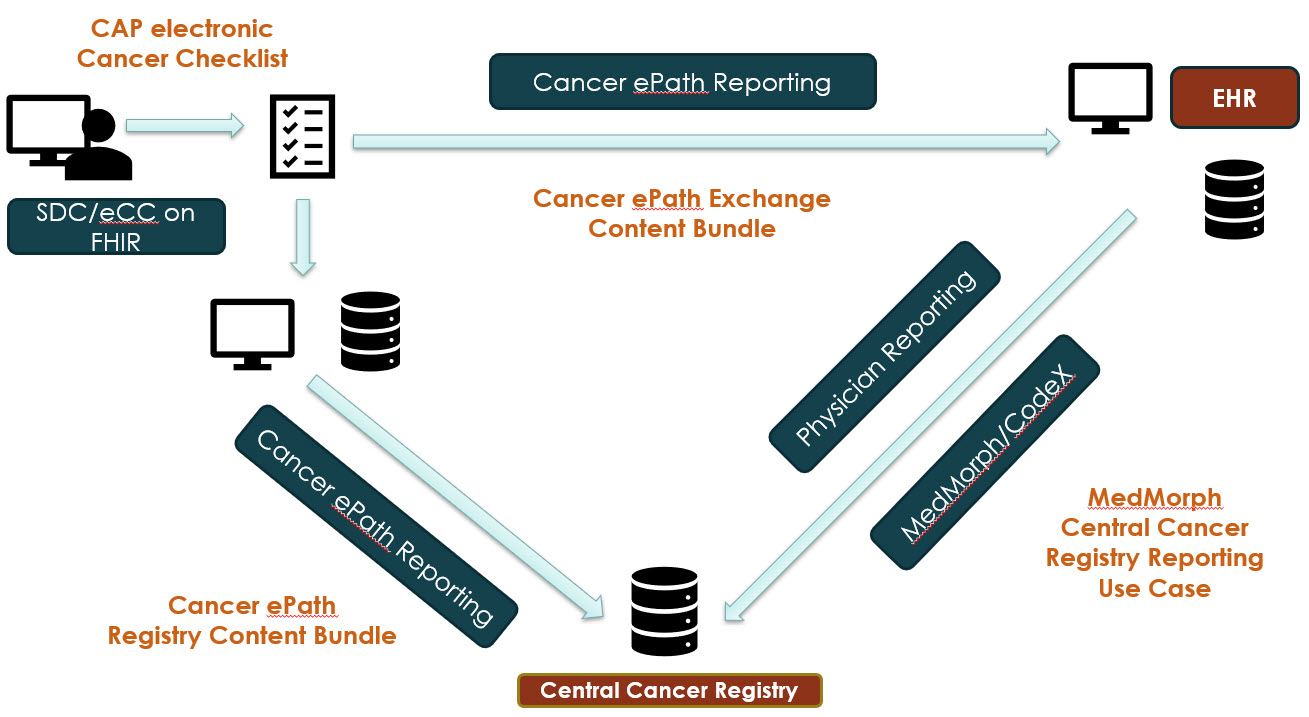
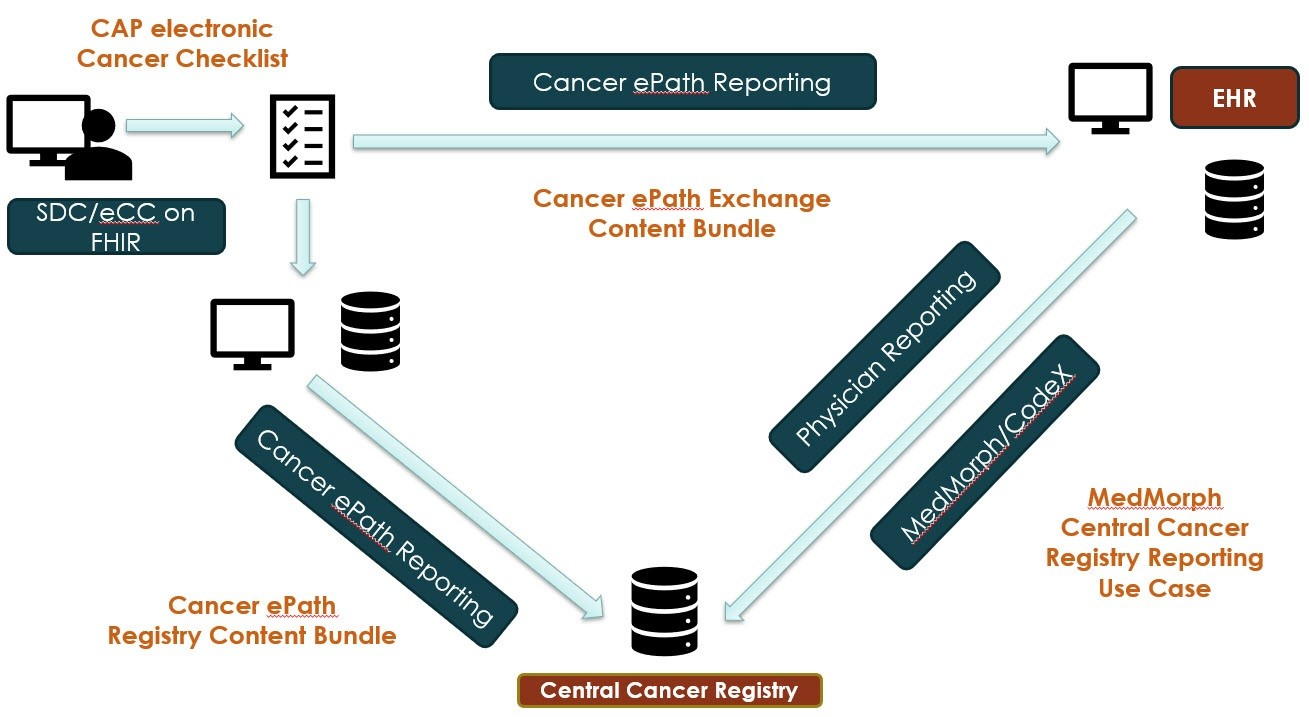
image publish test

diff --git a/input/pagecontent/background.md b/input/pagecontent/background.md
@@ -104,7 +104,8 @@ In the first scenario, this IG is designed to align with the [MedMorph Reference
 The second scenario, LIS to CCR exchange, is also outlined in this IG and guidelines can be found in the [Artifact Index](http://build.fhir.org/ig/HL7/cancer-reporting/artifacts.html).  
 
 **Figure: Data Flows Supported by this Implementation Guide**
-<table><tr><td><img src="CancerPath"/></td></tr></table>
+<table><tr><td><img src="CancerPath.jpg"/></td></tr></table>
+<table><tr><td><img src="CancerPath.png"/></td></tr></table>
 
 ### Ongoing Project Efforts
 This project acknowledges that there is an ongoing discussion about how LOINC vs. SNOMED terminologies serve cancer pathology, but it does not propose to resolve that discussion. Future development of this standard may explore new use cases, such as microbiology laboratory reporting. Future revisions will also include mappings for CAP eCC Protocol CKey Identifier to SNOMED translation.  
